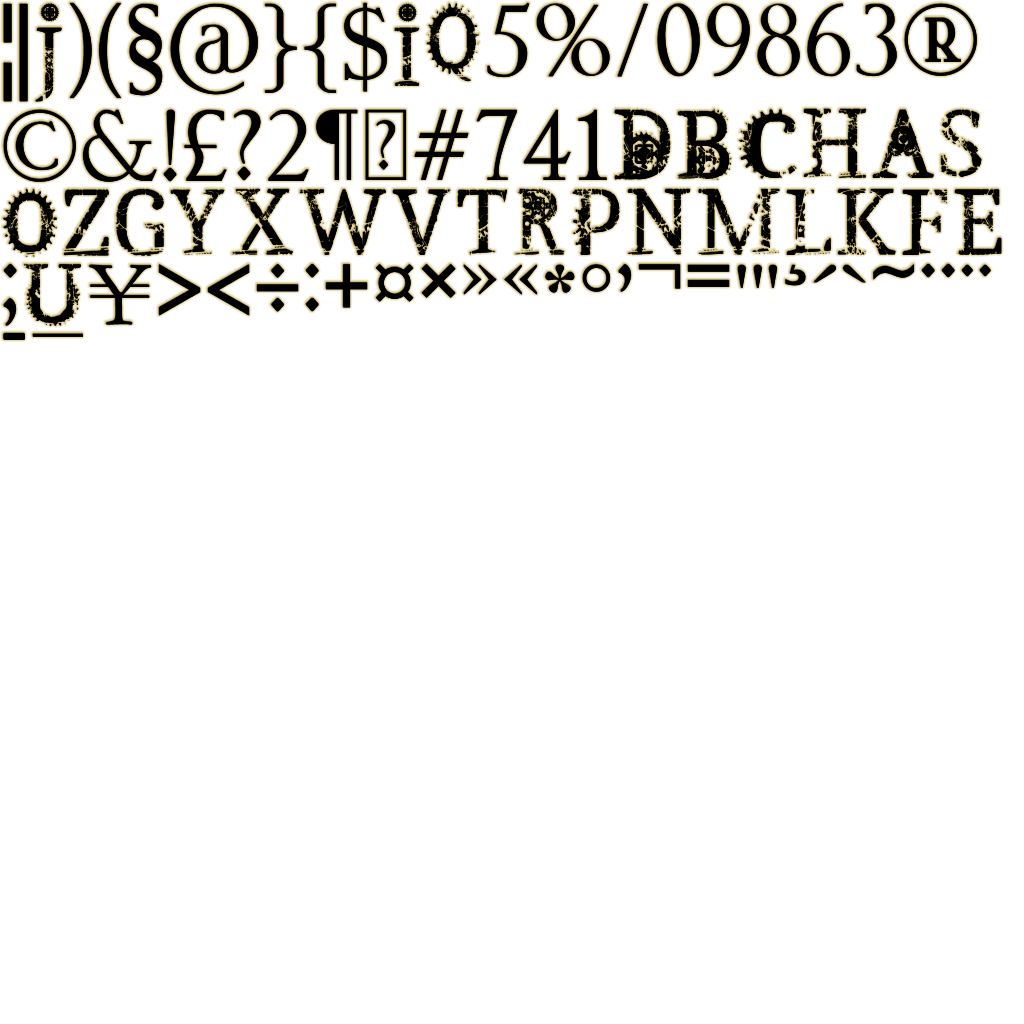
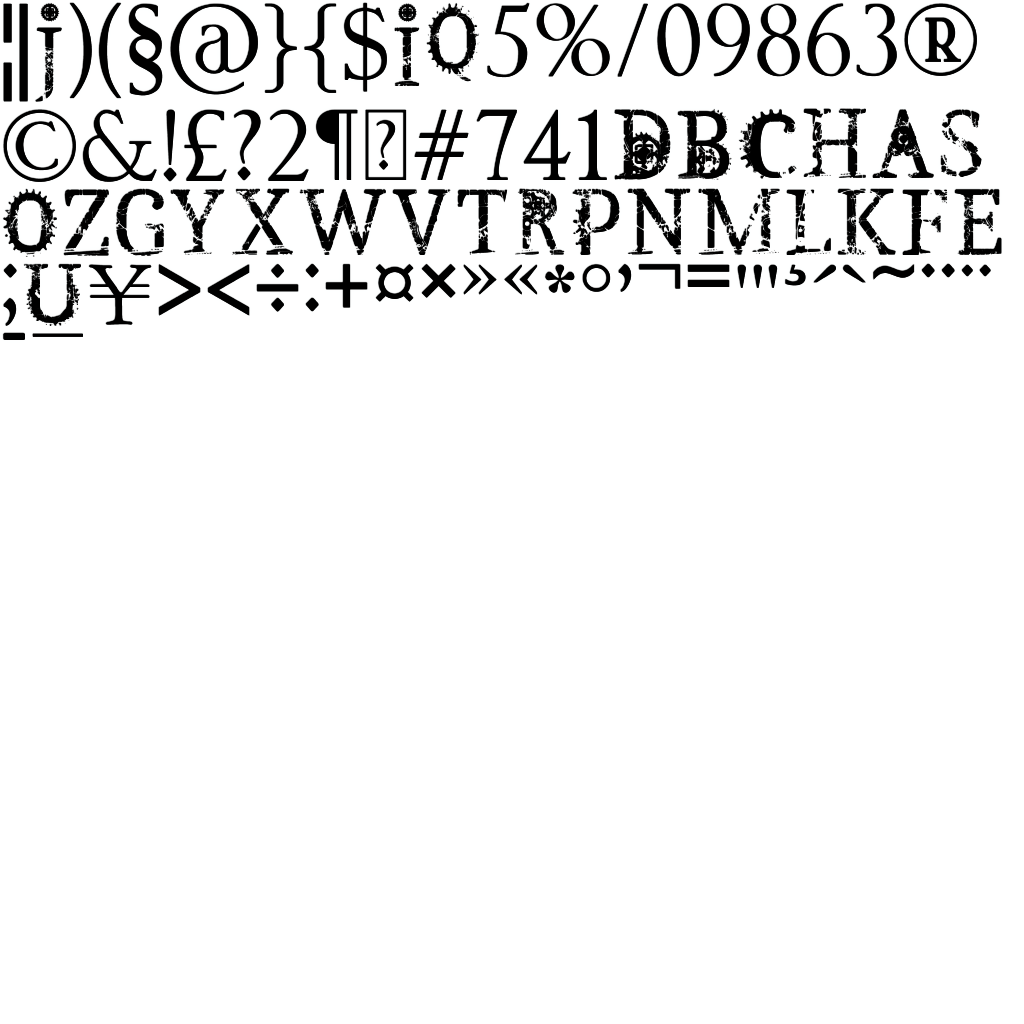
fonts, menu etc

Changed region(s): [[0.0, 0.0, 1.0, 0.3438]]

diff --git a/src/game/menu/MainMenu.java b/src/game/menu/MainMenu.java
@@ -8,6 +8,7 @@ import game.config.InputConfiguration;
 import game.config.MapConfig;
 import game.config.PlayerConfig;
 
+import org.newdawn.slick.Color;
 import org.newdawn.slick.GameContainer;
 import org.newdawn.slick.Graphics;
 import org.newdawn.slick.Input;
@@ -142,7 +143,8 @@ public class MainMenu extends Menu
 	}
 	
 	private void renderAvatarLayer(GameContainer container, StateBasedGame game, Graphics graphics) {
-		fontOutline2.drawString(50, 10, "Avatar Selection");
+		fontOutline2.drawString(40, 30, "Avatar Selection");
+	
 		
 		graphics.scale(0.7f, 0.7f);
 		
@@ -219,6 +221,10 @@ public class MainMenu extends Menu
 		float scale = 0.7f;
 		
 		mapConfigs.get(actualMap).getImage().draw(xPaddingMap, yPadding + playersSpace / 2, 1.0f);
+		Color tmp = graphics.getColor();
+		graphics.setColor(Color.black);
+		graphics.drawRect(xPaddingMap, yPadding + playersSpace / 2, mapConfigs.get(actualMap).getImage().getWidth(), mapConfigs.get(actualMap).getImage().getHeight());
+		graphics.setColor(tmp);
 		fontOutline2.drawString(xPaddingMap - BombermanGame.JAMES_FONT.getWidth("Map") / 2, yPadding - fontOutline2.getHeight("Map") / 2, "Map");
 		
 		for (int i = 0; i < actualPlayerConfigs.size(); i++) {
@@ -226,6 +232,10 @@ public class MainMenu extends Menu
 			PlayerConfig p = actualPlayerConfigs.get(i);
 			if (i == 0) {
 				p.getImage().draw(xPaddingPlayers, yPadding, 0.5f);
+				tmp = graphics.getColor();
+				graphics.setColor(Color.black);
+				graphics.drawRect(xPaddingPlayers, yPadding, p.getImage().getWidth() * 0.5f, p.getImage().getHeight() * 0.5f);
+				graphics.setColor(tmp);
 				graphics.scale(scale, scale);
 				fontOutline2.drawString((xPaddingPlayers - fontOutline2.getWidth("P1") * scale / 2) / scale , 
 						(yPadding - fontOutline2.getHeight("P1") * scale / 2) / scale, "P1");
@@ -233,6 +243,11 @@ public class MainMenu extends Menu
 			}
 			if (i == 1) {
 				p.getImage().draw(xPaddingPlayers + p.getImage().getScaledCopy(0.5f).getWidth() + playersSpace, yPadding, 0.5f);
+				tmp = graphics.getColor();
+				graphics.setColor(Color.black);
+				graphics.drawRect(xPaddingPlayers + p.getImage().getScaledCopy(0.5f).getWidth() + playersSpace, 
+						yPadding, p.getImage().getWidth() * 0.5f, p.getImage().getHeight() * 0.5f);
+				graphics.setColor(tmp);
 				graphics.scale(scale, scale);
 				fontOutline2.drawString((xPaddingPlayers + p.getImage().getScaledCopy(0.5f).getWidth() + p.getImage().getScaledCopy(0.5f).getWidth() + playersSpace - fontOutline2.getWidth("P2") * scale / 2) / scale , 
 						(yPadding - fontOutline2.getHeight("P2") * scale / 2 ) / scale, "P2");
@@ -240,14 +255,25 @@ public class MainMenu extends Menu
 			}
 			if (i == 2) {
 				p.getImage().draw(xPaddingPlayers, yPadding + p.getImage().getScaledCopy(0.5f).getHeight() + playersSpace, 0.5f);
+				tmp = graphics.getColor();
+				graphics.setColor(Color.black);
+				graphics.drawRect(xPaddingPlayers, yPadding + p.getImage().getScaledCopy(0.5f).getHeight() + playersSpace, 
+						p.getImage().getWidth() * 0.5f, p.getImage().getHeight() * 0.5f);
+				graphics.setColor(tmp);
 				graphics.scale(scale, scale);
 				fontOutline2.drawString((xPaddingPlayers - fontOutline2.getWidth("P1") * scale / 2) / scale , 
 						(yPadding + p.getImage().getScaledCopy(0.5f).getHeight() + playersSpace - fontOutline2.getHeight("P3") * scale / 2) / scale, "P3");
 				graphics.resetTransform();
 			}
 			if (i == 3) {
-				p.getImage().draw(xPaddingPlayers + + p.getImage().getScaledCopy(0.5f).getWidth() + playersSpace, 
+				p.getImage().draw(xPaddingPlayers + p.getImage().getScaledCopy(0.5f).getWidth() + playersSpace, 
 						yPadding + p.getImage().getScaledCopy(0.5f).getHeight() + playersSpace, 0.5f);
+				tmp = graphics.getColor();
+				graphics.setColor(Color.black);
+				graphics.drawRect(xPaddingPlayers + p.getImage().getScaledCopy(0.5f).getWidth() + playersSpace, 
+						yPadding + p.getImage().getScaledCopy(0.5f).getHeight() + playersSpace, 
+						p.getImage().getWidth() * 0.5f, p.getImage().getHeight() * 0.5f);
+				graphics.setColor(tmp);
 				graphics.scale(scale, scale);
 				fontOutline2.drawString((xPaddingPlayers + p.getImage().getScaledCopy(0.5f).getWidth() + p.getImage().getScaledCopy(0.5f).getWidth() + playersSpace - fontOutline2.getWidth("P4") * scale / 2) / scale , 
 						(yPadding + p.getImage().getScaledCopy(0.5f).getHeight() + playersSpace - fontOutline2.getHeight("P4") * scale / 2 ) / scale, "P4");
@@ -326,7 +352,7 @@ public class MainMenu extends Menu
 	}
 
 	private void renderControlsLayer(GameContainer container, StateBasedGame game, Graphics graphics) {
-		fontOutline2.drawString(50, 10, "Controls");
+		fontOutline2.drawString(40, 30, "Controls");
 		
 		graphics.scale(0.7f, 0.7f);
 		fontOutline.drawString((canvasWidth - fontOutline.getWidth(controlsLayer_0)) / 2 /0.7f, 

diff --git a/src/game/BombermanGame.java b/src/game/BombermanGame.java
@@ -26,6 +26,8 @@ public class BombermanGame extends StateBasedGame {
 	public static AngelCodeFont STEAMPUNK_FONT_MED;
 	public static AngelCodeFont STEAMPUNK_FONT_OL_MED;
 	
+	public static AngelCodeFont SUBWAY_FONT;
+	
 	public static AngelCodeFont STEAMPUNK2_FONT;
 	public static AngelCodeFont STEAMPUNK2_FONT_OL;
 	
@@ -100,6 +102,8 @@ public class BombermanGame extends StateBasedGame {
 		
 		BASKERVILLE_FONT_BIG = new AngelCodeFont("res/fonts/Baskerville_80.fnt", new Image("res/fonts/Baskerville_80.png"));
 		BASKERVILLE_FONT_OL_BIG = new AngelCodeFont("res/fonts/Baskerville_ol_80.fnt", new Image("res/fonts/Baskerville_ol_80.png"));
+		
+		SUBWAY_FONT = new AngelCodeFont("res/fonts/subway.fnt", new Image("res/fonts/subway.png"));
     }
 
     private void createConfig () throws SlickException

diff --git a/src/game/menu/Menu.java b/src/game/menu/Menu.java
@@ -11,7 +11,7 @@ public abstract class Menu
 {
 	protected AngelCodeFont font 			= BombermanGame.STEAMWRECK_FONT;
 	protected AngelCodeFont fontOutline 	= BombermanGame.STEAMWRECK_FONT_OL;
-	protected AngelCodeFont fontOutline2 	= BombermanGame.JAMES_FONT_OL;
+	protected AngelCodeFont fontOutline2 	= BombermanGame.SUBWAY_FONT;
 	
 	protected int canvasWidth;
 	protected int CanvasHeight;

diff --git a/src/game/PlayerStateScreen.java b/src/game/PlayerStateScreen.java
@@ -55,7 +55,7 @@ public class PlayerStateScreen implements IRenderable
         this.g.drawImage(playerStatsBackground, 0, 0);
 
         this.player.getPlayerConfig().getImage().draw(0.0f,0.0f,0.625f);
-
+		
         // draw icons
         this.g.drawImage(this.pubomb.getSprite(0,0),    5, 160);
         this.g.drawImage(this.puRange.getSprite(0,0),   5, 220);
